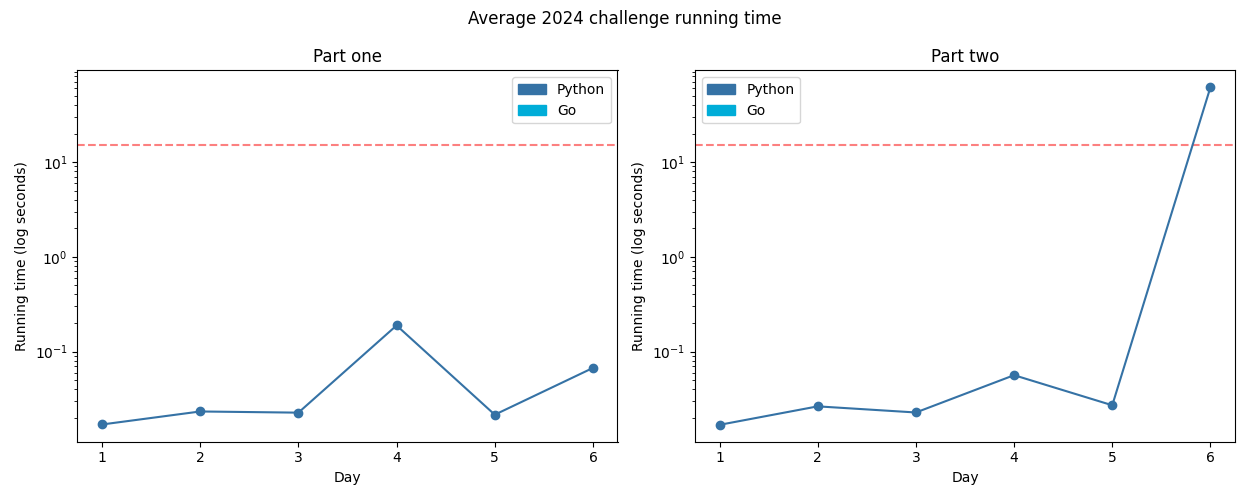
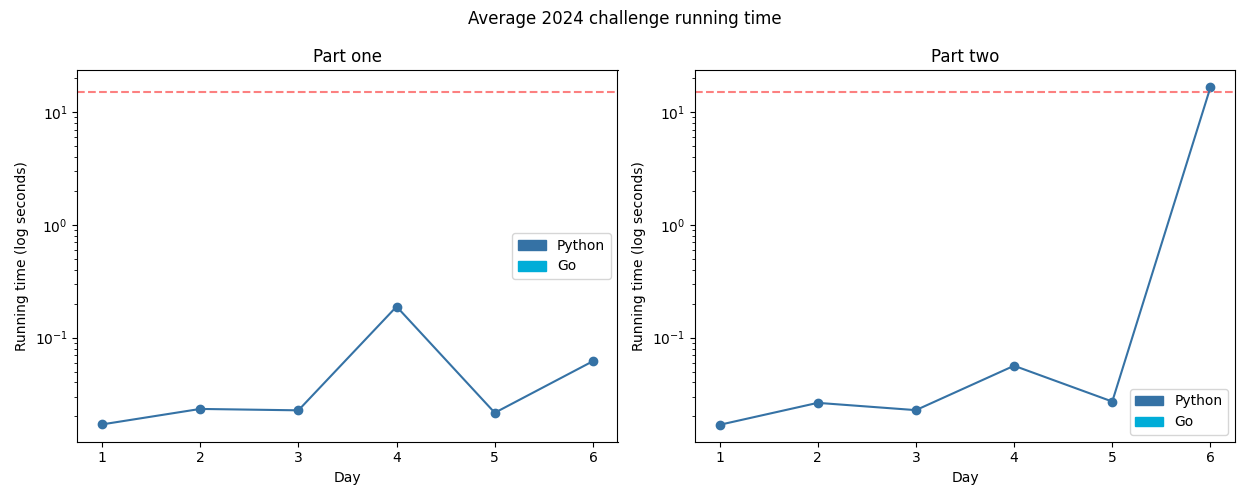
Optimise the snot out of 2024.06

diff --git a/gridutil/coord.py b/gridutil/coord.py
@@ -9,22 +9,16 @@ Coordinate3 = namedtuple("Coordinate3", ["x", "y", "z"])
 AnyCoordinate = Coordinate | Coordinate3
 
 
-def _coordmap(a: AnyCoordinate, b: AnyCoordinate, fn: Callable) -> AnyCoordinate:
-    at = type(a)
-    return at(*map(fn, zip(a, b)))
+def add(a: Coordinate, b: Coordinate) -> Coordinate:
+    return Coordinate(a.x + b.x, a.y + b.y)
 
 
-def add(a: AnyCoordinate, b: AnyCoordinate) -> AnyCoordinate:
-    return _coordmap(a, b, lambda x: x[0] + x[1])
+def sub(a: Coordinate, b: Coordinate) -> Coordinate:
+    return Coordinate(a.x - b.x, a.y - b.y)
 
 
-def sub(a: AnyCoordinate, b: AnyCoordinate) -> AnyCoordinate:
-    return _coordmap(a, b, lambda x: x[0] - x[1])
-
-
-def mult(a: AnyCoordinate, b: Number) -> AnyCoordinate:
-    at = type(a)
-    return at(*map(lambda x: x * b, a))
+def mult(a: Coordinate, b: Number) -> Coordinate:
+    return Coordinate(a.x * b, a.y * b)
 
 
 def manhattan_dist(a: AnyCoordinate, b: AnyCoordinate) -> Number:

diff --git a/challenges/2024/06-guardGallivant/main.py b/challenges/2024/06-guardGallivant/main.py
@@ -63,11 +63,11 @@ def two(instr: str) -> int:
     seq = trace(g, start_pos, 0)
     known_blocks = set()
 
-    for (pos, _) in tqdm(seq, file=sys.stderr):
+    for (pos, dir) in tqdm(seq, file=sys.stderr):
         assert pos in g, "pos off the rails"
         g[pos] = "#"
         try:
-            trace(g, start_pos, 0)
+            trace(g, coord.add(pos, coord.mult(dirs[dir].delta(), -1)), dir)
         except LoopEncounteredException:
             known_blocks.add(pos)
         g[pos] = "."

diff --git a/challenges/2024/06-guardGallivant/README.md b/challenges/2024/06-guardGallivant/README.md
@@ -3,3 +3,28 @@
 Part 2 is:
 * higher than 456
 * less than 1689
+
+The first implementation of part 2 took 15 minutes to run.
+
+* Turning `visited_sequence` in `trace` into a set instead of a list cut this to 60 seconds
+* Starting immediately in front of the new obstacle when testing positions to put said new obstacle in cut this to 20 seconds
+* Removing a load of maps and type wranging to turn the fully generic `gridutil.add` (and counterparts) into a more limited but much faster function took this to ~16 seconds
+
+Before:
+
+```py
+def _coordmap(a: AnyCoordinate, b: AnyCoordinate, fn: Callable) -> AnyCoordinate:
+    at = type(a)
+    return at(*map(fn, zip(a, b)))
+
+def add(a: AnyCoordinate, b: AnyCoordinate) -> AnyCoordinate:
+    return _coordmap(a, b, lambda x: x[0] + x[1])
+```
+
+After:
+
+
+```py
+def add(a: Coordinate, b: Coordinate) -> Coordinate:
+    return Coordinate(a.x + b.x, a.y + b.y)
+```
